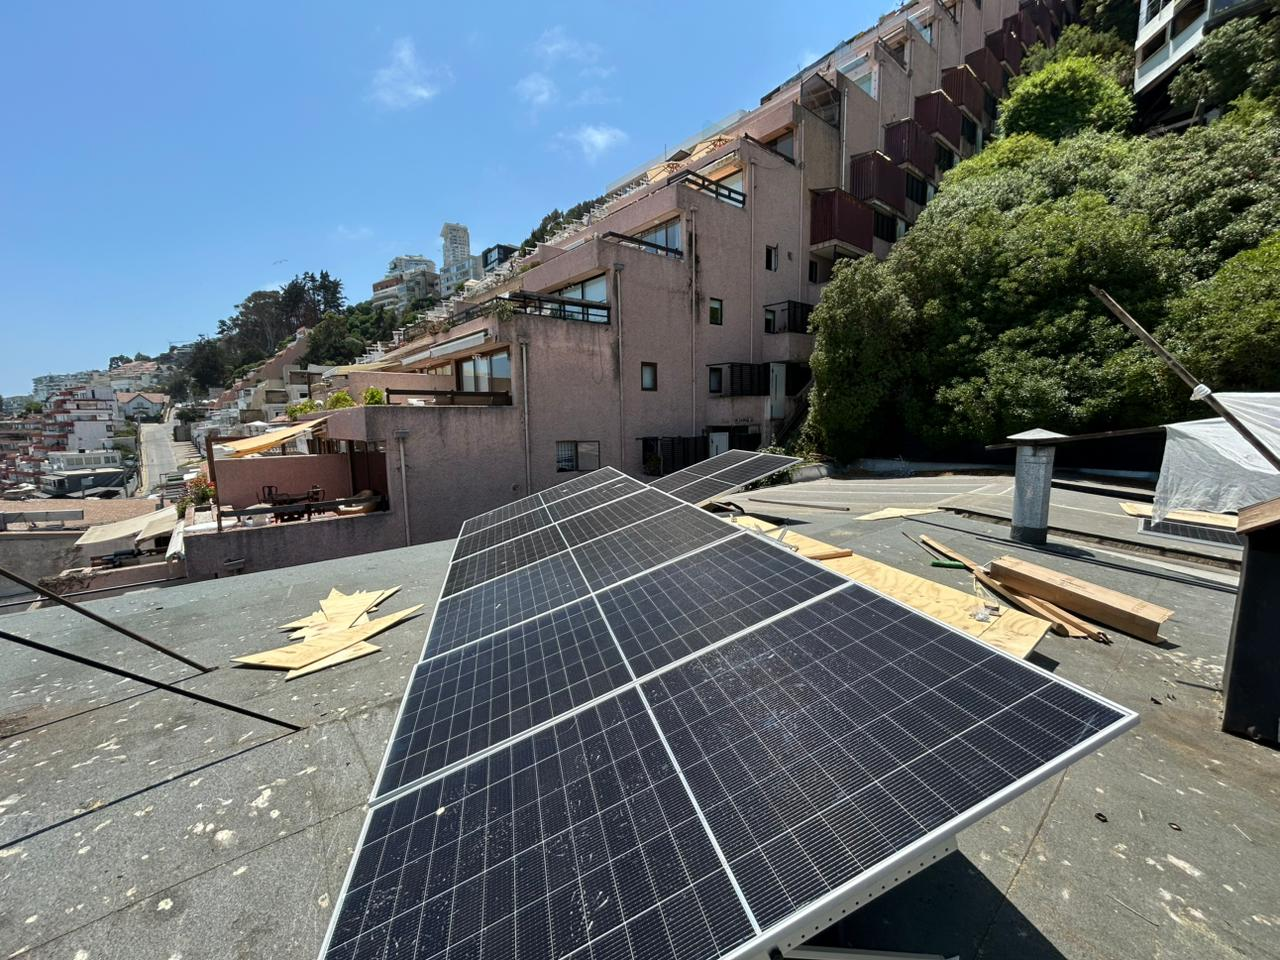
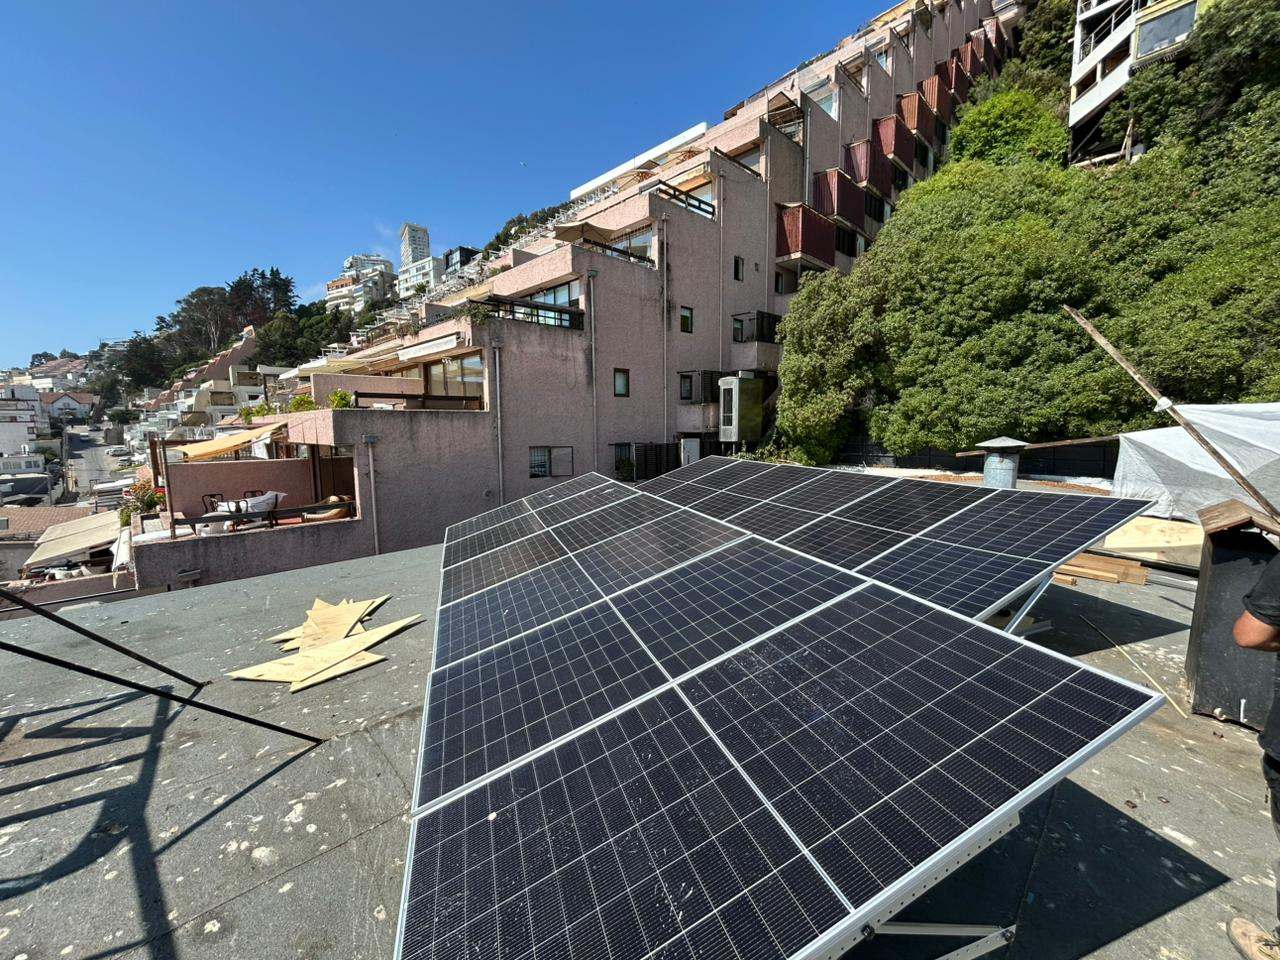
feat: update ContactForm fields to be required and enhance GallerySection by removing console log

diff --git a/src/app/components/ContactForm.tsx b/src/app/components/ContactForm.tsx
@@ -50,19 +50,21 @@ export default function ContactForm() {
         </FormField>
 
         <FormField
-          label="Teléfono"
+          label="Teléfono *"
           id="telefono"
           name="telefono"
           type="tel"
+          required
           placeholder="+569 1234 5678"
         >
           <ValidationError prefix="Teléfono" field="telefono" errors={state.errors} />
         </FormField>
 
         <FormField
-          label="Ubicación"
+          label="Ubicación *"
           id="ubicacion"
           name="ubicacion"
+          required
           placeholder="Valparaíso, V Región"
         >
           <ValidationError prefix="Ubicación" field="ubicacion" errors={state.errors} />

diff --git a/src/app/_components/GallerySection.tsx b/src/app/_components/GallerySection.tsx
@@ -9,8 +9,6 @@ import { galleryImages } from "@/lib/constants/gallery";
  * Sección de galería de imágenes
  */
 export function GallerySection() {
-  console.log("🖼 Gallery images:", galleryImages);
-
   return (
     <Section id="galeria" className="bg-white">
       <Container className="py-16 sm:py-20 lg:py-24">
